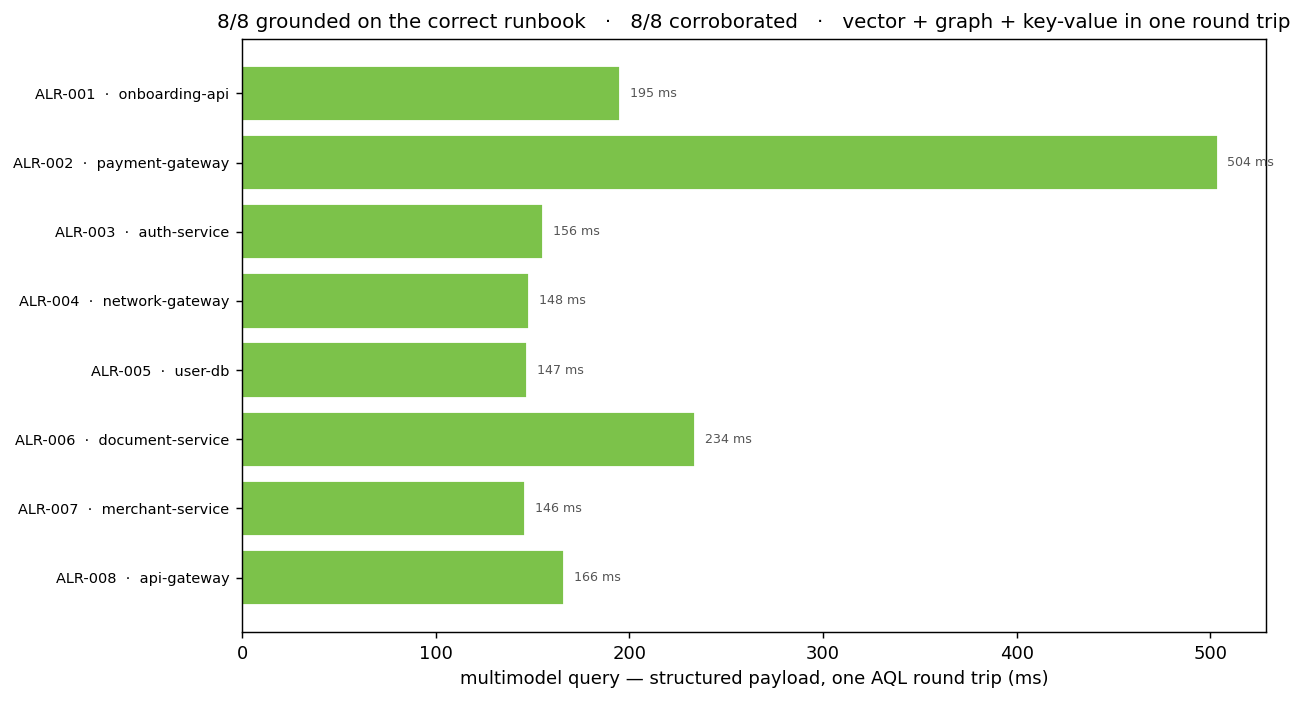
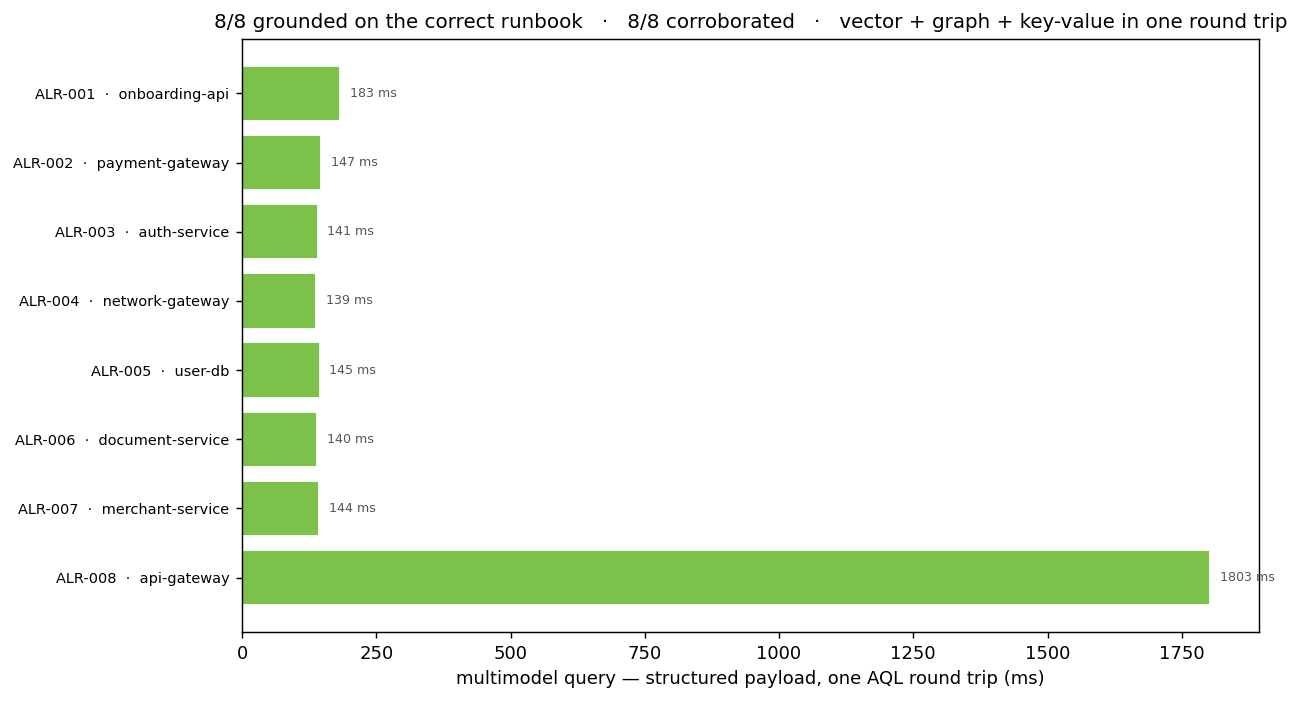
Move Python modules into src/ (tidy repo root)
- src/ holds ingest, graphrag, graphrag_ingest, resolver, run_all, viz
- notebook first cell adds sys.path.insert(0, 'src'); run from repo root
- README run commands + file tree updated to src/ paths
- revalidated: notebook runs unedited (EXIT=0), 8/8 grounded, 8/8 corroborated

diff --git a/README.md b/README.md
@@ -29,7 +29,7 @@ database, no stitched-together pipeline.
 - [Status](#status)
 
 ## What one alert returns
-`python resolver.py data/alert.sample.json` on a P1 `onboarding-api` alert returns a single JSON payload:
+`python src/resolver.py data/alert.sample.json` on a P1 `onboarding-api` alert returns a single JSON payload:
 
 - **`structured`** (one AQL round trip):
   - `similar_incidents`: 3 ranked past incidents with their resolutions (vector, [`APPROX_NEAR_COSINE`](https://docs.arango.ai/arangodb/stable/aql/functions/vector/))
@@ -99,11 +99,11 @@ cp .env.example .env   # fill in ARANGO_* + OPENAI_API_KEY + GRAPHRAG_PROJECT/GR
 
 ## Run
 ```bash
-python ingest.py                            # 1. multimodel core: 500 incidents + 8 alerts + topology
-python graphrag_ingest.py                   # 2. import runbooks -> knowledge graph (skip-if-built; --reset to rebuild)
-python resolver.py data/alert.sample.json   # 3. one alert -> structured payload + cited, grounded answer
+python src/ingest.py                            # 1. multimodel core: 500 incidents + 8 alerts + topology
+python src/graphrag_ingest.py                   # 2. import runbooks -> knowledge graph (skip-if-built; --reset to rebuild)
+python src/resolver.py data/alert.sample.json   # 3. one alert -> structured payload + cited, grounded answer
 # or the whole pipeline at once:
-python run_all.py
+python src/run_all.py
 ```
 The notebook `incident_resolution.ipynb` walks the same flow, importing the same functions.
 
@@ -130,12 +130,12 @@ discovered at runtime (`graphrag.py`), never hardcoded.
 
 ## Repository contents
 ```
-ingest.py              multimodel core: schema, embed tickets, build topology, store alerts
-graphrag.py            auth + service discovery + the KG runbook lookup
-graphrag_ingest.py     import runbooks into the knowledge graph + verify (skip-if-built / --reset)
-resolver.py            the marquee AQL query + the cited, grounded answer + corroboration + evaluate()
-run_all.py             the whole pipeline in one command
-viz.py                 regenerate the figures from live data (subgraph, knowledge graph, results)
+src/ingest.py          multimodel core: schema, embed tickets, build topology, store alerts
+src/graphrag.py        auth + service discovery + the KG runbook lookup
+src/graphrag_ingest.py import runbooks into the knowledge graph + verify (skip-if-built / --reset)
+src/resolver.py        the marquee AQL query + the cited, grounded answer + corroboration + evaluate()
+src/run_all.py         the whole pipeline in one command
+src/viz.py             regenerate the figures from live data (subgraph, knowledge graph, results)
 incident_resolution.ipynb   narrated, executed walkthrough of the same flow (outputs + figures)
 data/topology.json     curated service topology (12 services, 13 dependencies, 5 teams)
 data/alerts.json       8 synthetic alerts; data/alert.sample.json is the headline P1